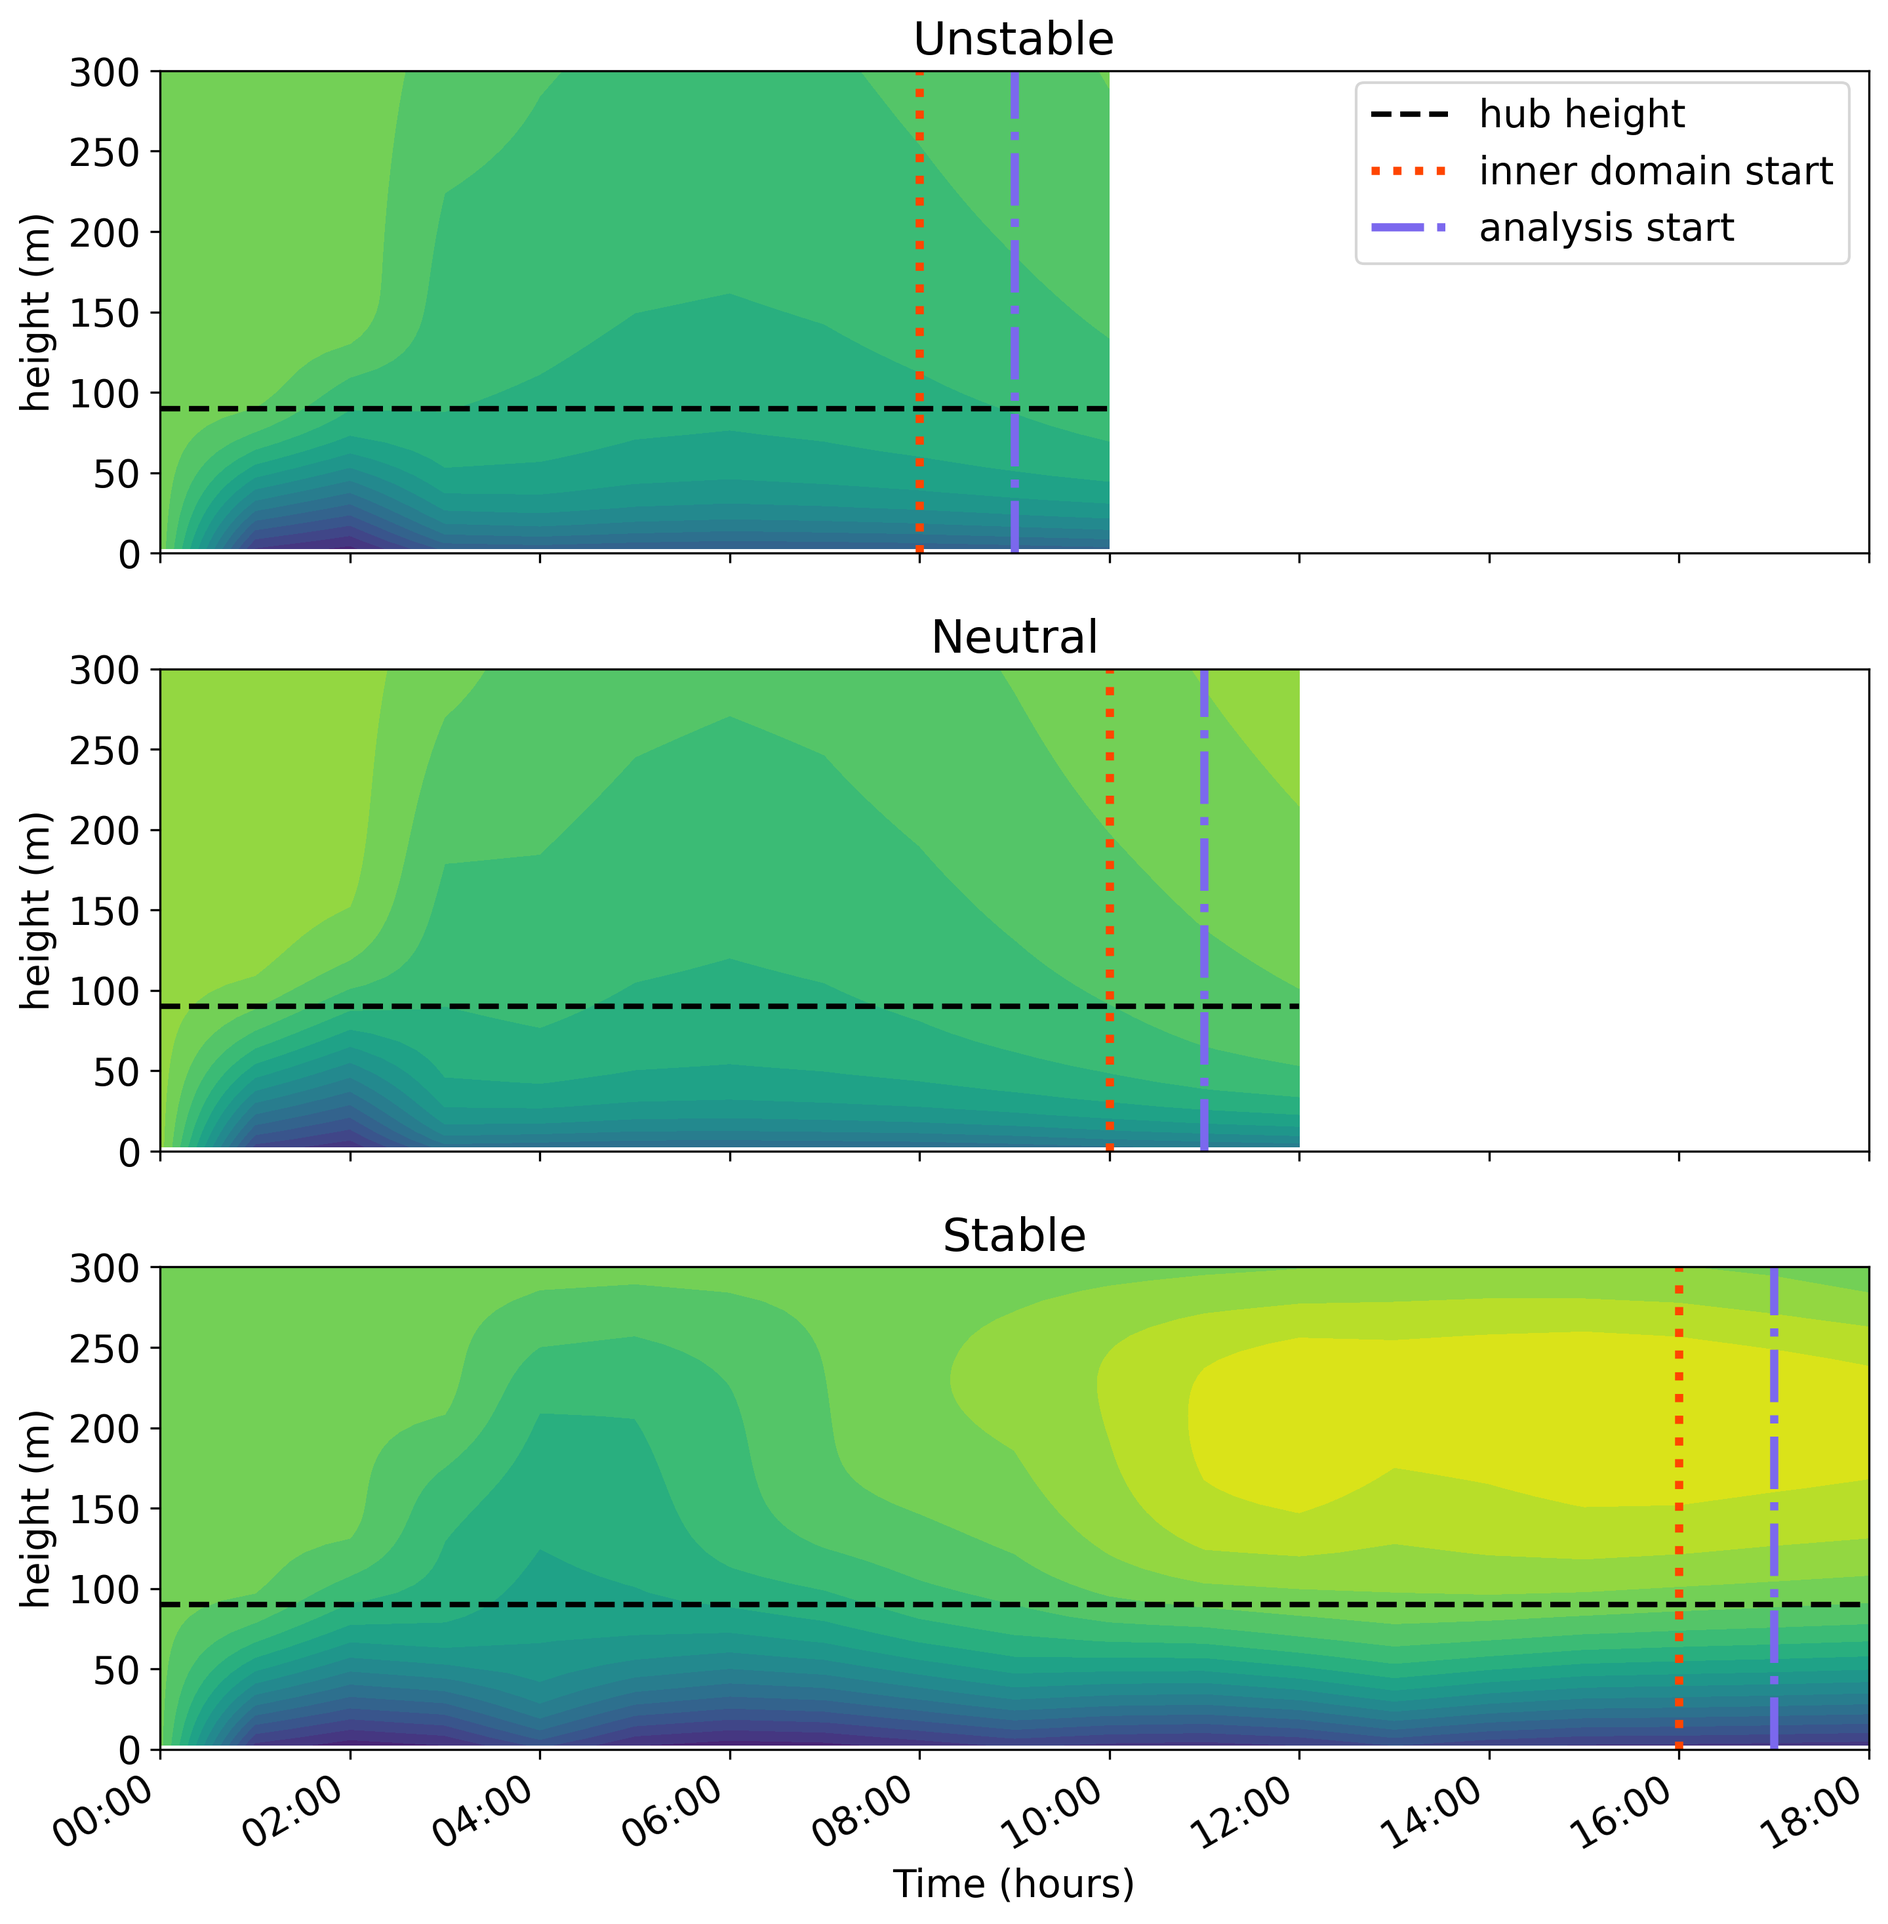
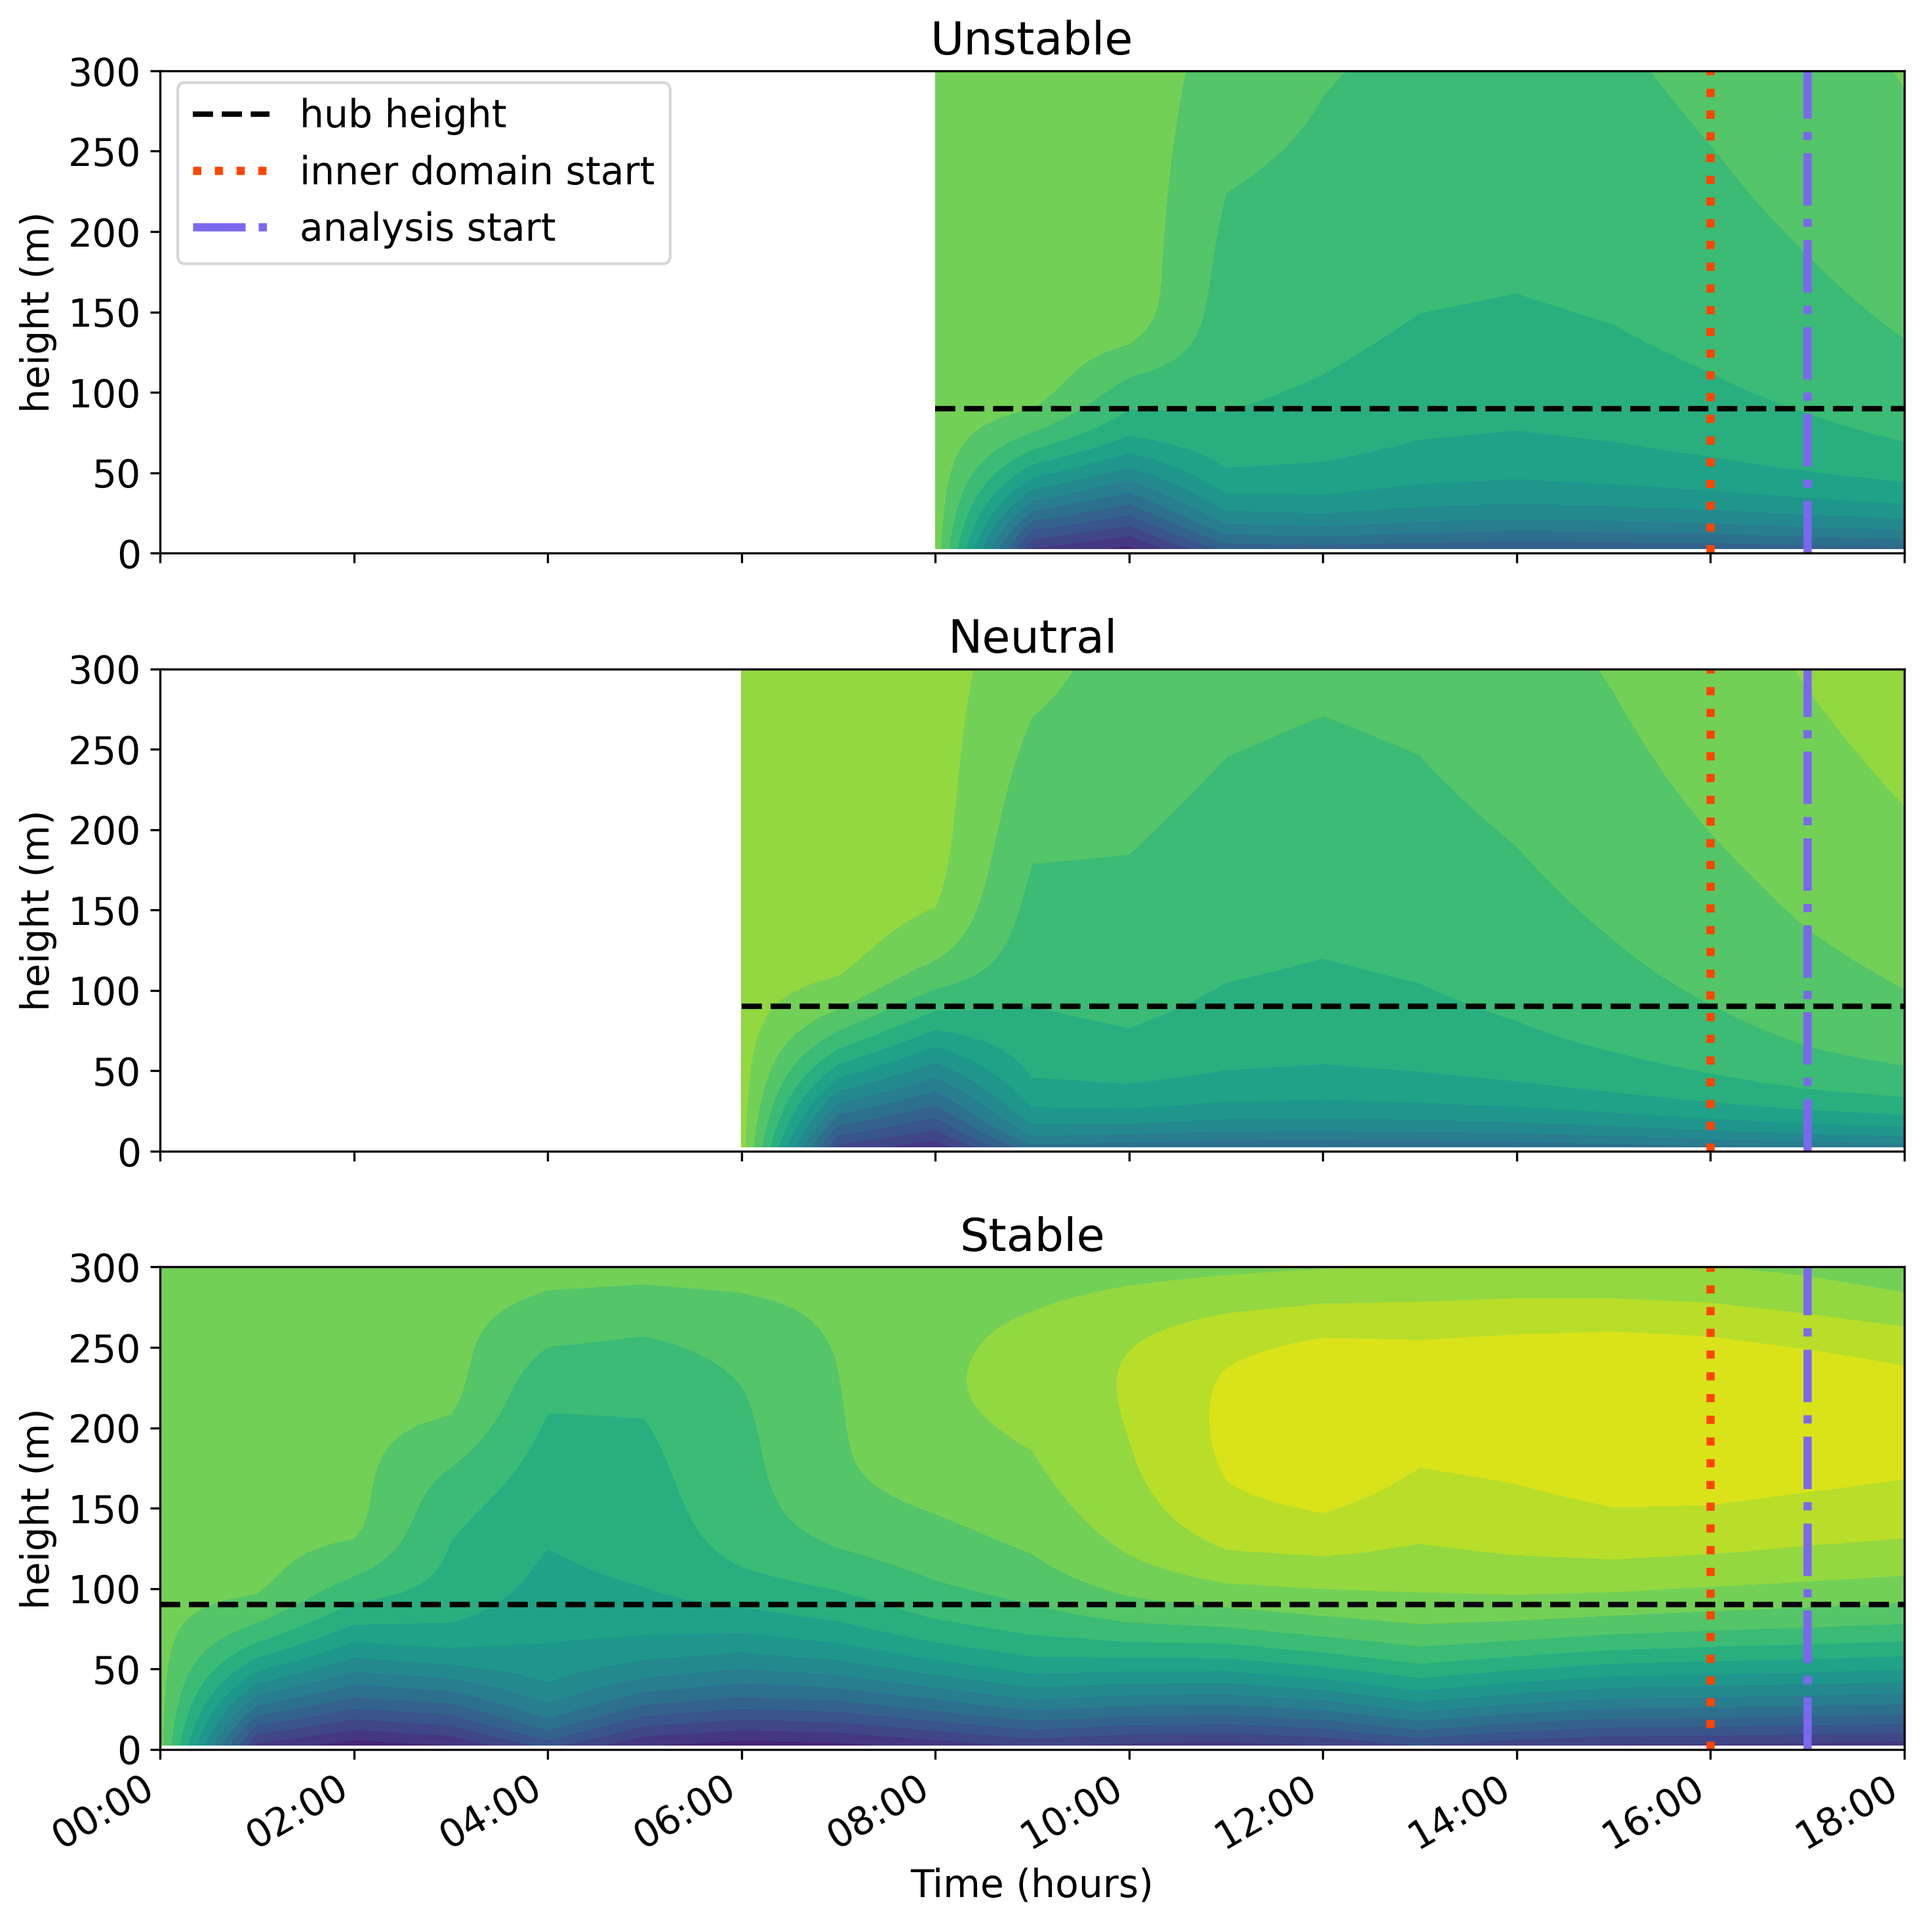
align end not start

diff --git a/time_evolution_both.py b/time_evolution_both.py
@@ -23,7 +23,8 @@ fig, axes = plt.subplots(nrows=3, sharex=True, figsize=(10, 10))
 for i in range(3):
     ax = axes[i]
     ds = datasets[i]
-    time = ds.columns.astype('datetime64[ns]').tolist()
+    offset_hours = [8, 6, 0][i]
+    time = (pd.to_datetime(ds.columns) + pd.to_timedelta(offset_hours, unit='h')).tolist()
     z = ds.index.astype(float).tolist()
 
     ax.contourf(time, z, ds, levels=levels, cmap=cmap, norm=norm)
@@ -39,7 +40,7 @@ for i in range(3):
 
     ax.set_title(labels[i])
 
-axes[0].legend(loc=(.7, 0.6))
+axes[0].legend(loc=(.01, 0.6))
 plt.ylim(bottom=0)
 axes[0].set_ylabel('height (m)')
 axes[1].set_ylabel('height (m)')
